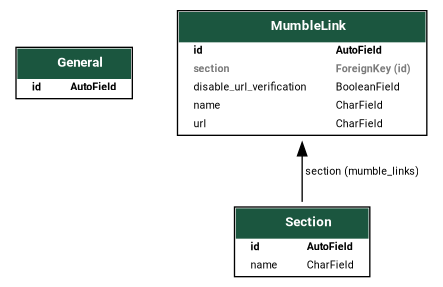
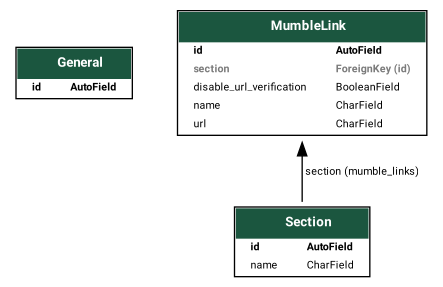
[RELEASE] v2.0.0
## [2.0.0] - 2026-06-07

> [!IMPORTANT]
>
> **This version needs Alliance Auth v5!**
>
> Please make sure to update your Alliance Auth instance **before** you install this
> version, otherwise an update to Alliance Auth will be pulled in unsupervised.

### Removed

- Support for Alliance Auth v4

diff --git a/aa_mumble_quick_connect/__init__.py b/aa_mumble_quick_connect/__init__.py
@@ -5,6 +5,6 @@ Initialize the app
 # Django
 from django.utils.translation import gettext_lazy as _
 
-__version__ = "1.1.3"
+__version__ = "2.0.0"
 __title__ = "Mumble Quick Connect"
 __title_translated__ = _("Mumble Quick Connect")

diff --git a/CHANGELOG.md b/CHANGELOG.md
@@ -43,6 +43,8 @@ Section Order:
 
 <!-- Your changes go here -->
 
+## [2.0.0] - 2026-06-07
+
 > [!IMPORTANT]
 >
 > **This version needs Alliance Auth v5!**
@@ -201,6 +203,7 @@ Section Order:
 [1.1.1]: https://github.com/ppfeufer/aa-mumble-quick-connect/compare/v1.1.0...v1.1.1 "v1.1.1"
 [1.1.2]: https://github.com/ppfeufer/aa-mumble-quick-connect/compare/v1.1.1...v1.1.2 "v1.1.2"
 [1.1.3]: https://github.com/ppfeufer/aa-mumble-quick-connect/compare/v1.1.2...v1.1.3 "v1.1.3"
-[in development]: https://github.com/ppfeufer/aa-mumble-quick-connect/compare/v1.1.3...HEAD "In Development"
+[2.0.0]: https://github.com/ppfeufer/aa-mumble-quick-connect/compare/v1.1.3...v2.0.0 "v2.0.0"
+[in development]: https://github.com/ppfeufer/aa-mumble-quick-connect/compare/v2.0.0...HEAD "In Development"
 [keep a changelog]: http://keepachangelog.com/ "Keep a Changelog"
 [semantic versioning]: http://semver.org/ "Semantic Versioning"

diff --git a/README.md b/README.md
@@ -62,7 +62,7 @@ ______________________________________________________________________
 Install the app using pip:
 
 ```shell
-pip install aa-mumble-quick-connect==1.1.3
+pip install aa-mumble-quick-connect==2.0.0
 ```
 
 #### Step 2: Update Your AA Settings<a name="step-2-update-your-aa-settings"></a>
@@ -91,7 +91,7 @@ python manage.py collectstatic --noinput
 Add the app to your `conf/requirements.txt`:
 
 ```text
-aa-mumble-quick-connect==1.1.3
+aa-mumble-quick-connect==2.0.0
 ```
 
 #### Step 2: Update Your AA Settings<a name="step-2-update-your-aa-settings-1"></a>